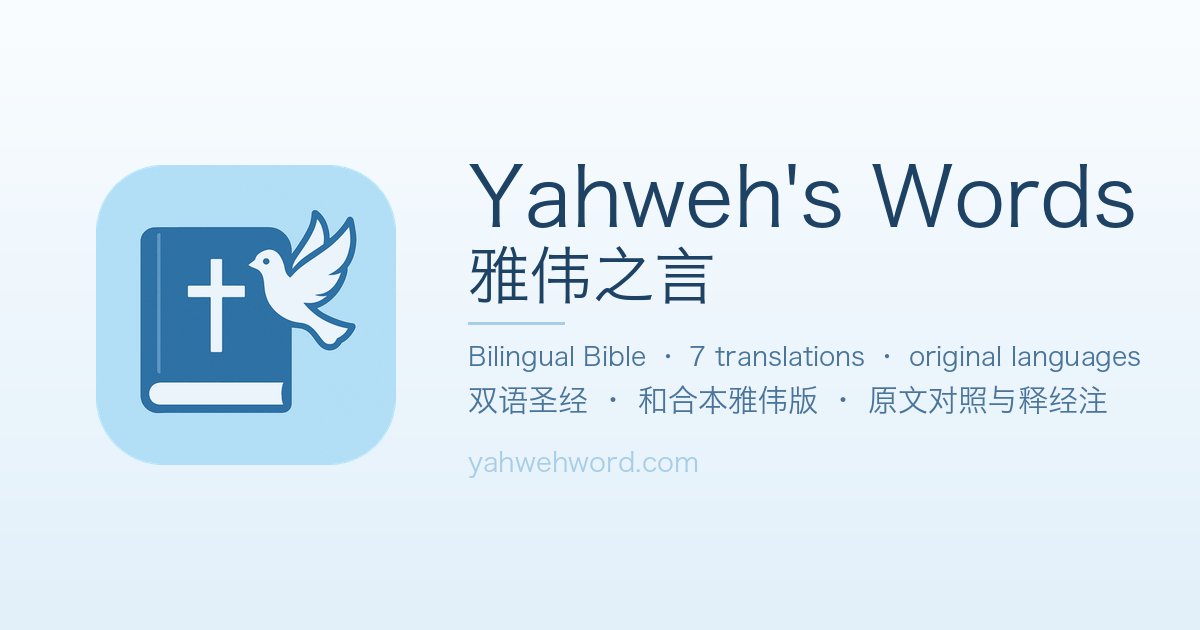
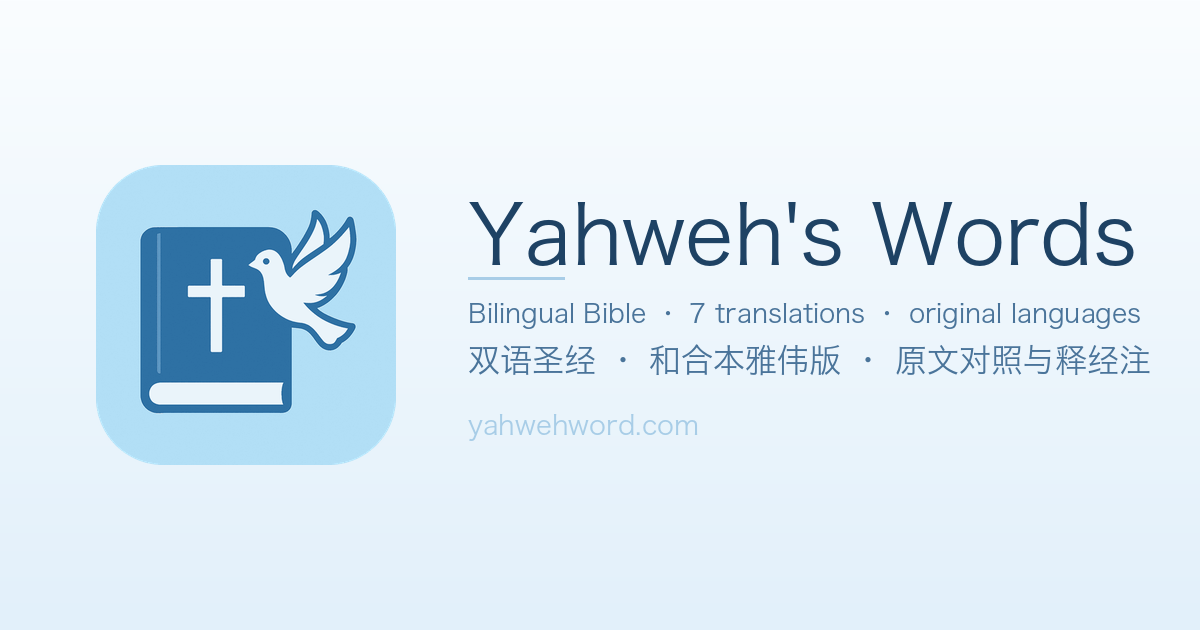
web: one name per language in the share layer, never the pair

Changed region(s): [[0.37, 0.2714, 0.9558, 0.6937], [0.37, 0.7238, 0.5858, 0.754]]

diff --git a/web/index.html b/web/index.html
@@ -55,7 +55,7 @@
        They are what makes this app findable AT ALL: no other Bible site
        carries them, so they are the queries that can actually be won,
        while "bible app" cannot. -->
-  <meta name="description" content="Yahweh's Words 雅伟之言 — free bilingual Bible: 和合本雅伟版、梁家铿译本、KJV、NASB、LEB, original Greek &amp; Hebrew, cross-references, sermons and hymns.">
+  <meta name="description" content="Yahweh's Words — a free bilingual Bible: 和合本雅伟版、梁家铿译本、KJV、NASB、LEB, original Greek &amp; Hebrew, cross-references, sermons and hymns. 雅伟之言 —— 免费的中英对照圣经。">
 
   <!-- Kept even though Google has ignored keywords since 2009: Baidu
        and Sogou still read it, and a large share of this app's readers
@@ -75,14 +75,14 @@
        picture. Regenerate the card with `python3 tools/make_og_card.py`
        whenever the name, tagline or domain changes. -->
   <meta property="og:type" content="website">
-  <meta property="og:site_name" content="Yahweh's Words 雅伟之言">
-  <meta property="og:title" content="Yahweh's Words 雅伟之言 — Bilingual Bible 双语圣经">
-  <meta property="og:description" content="Free bilingual Bible: 和合本雅伟版、梁家铿译本、KJV、NASB、LEB, original Greek &amp; Hebrew, cross-references, sermons and hymns.">
+  <meta property="og:site_name" content="Yahweh's Words">
+  <meta property="og:title" content="Yahweh's Words — Bilingual Bible 双语圣经">
+  <meta property="og:description" content="A free bilingual Bible: 和合本雅伟版、梁家铿译本、KJV、NASB、LEB, original Greek &amp; Hebrew, cross-references, sermons and hymns. 雅伟之言 —— 中英对照，免费使用。">
   <meta property="og:url" content="https://yahwehword.com/">
   <meta property="og:image" content="https://yahwehword.com/og-card.png">
   <meta property="og:image:width" content="1200">
   <meta property="og:image:height" content="630">
-  <meta property="og:image:alt" content="Yahweh's Words 雅伟之言 — bilingual Bible reader">
+  <meta property="og:image:alt" content="Yahweh's Words — bilingual Bible reader">
   <!-- The app ships one UI in three scripts at the SAME url, so there
        is nothing for hreflang to point at (it needs distinct URLs per
        language and inventing them would be worse than omitting it).
@@ -92,8 +92,8 @@
   <meta property="og:locale:alternate" content="zh_TW">
 
   <meta name="twitter:card" content="summary_large_image">
-  <meta name="twitter:title" content="Yahweh's Words 雅伟之言 — Bilingual Bible 双语圣经">
-  <meta name="twitter:description" content="Free bilingual Bible: 和合本雅伟版、梁家铿译本、KJV、NASB、LEB, original Greek &amp; Hebrew, cross-references, sermons and hymns.">
+  <meta name="twitter:title" content="Yahweh's Words — Bilingual Bible 双语圣经">
+  <meta name="twitter:description" content="A free bilingual Bible: 和合本雅伟版、梁家铿译本、KJV、NASB、LEB, original Greek &amp; Hebrew, cross-references, sermons and hymns. 雅伟之言 —— 中英对照，免费使用。">
   <meta name="twitter:image" content="https://yahwehword.com/og-card.png">
 
   <!-- Structured data. Deliberately NOT claimed here: aggregateRating
@@ -119,7 +119,8 @@
       {
         "@type": "WebApplication",
         "@id": "https://yahwehword.com/#app",
-        "name": "Yahweh's Words 雅伟之言",
+        "name": "Yahweh's Words",
+        "alternateName": ["雅伟之言", "雅偉之言"],
         "url": "https://yahwehword.com/",
         "applicationCategory": "ReferenceApplication",
         "operatingSystem": "Any (web browser)",
@@ -736,6 +737,7 @@
         color: #0d3b5c;
       }
       .ys-noscript h1 { font-size: 24px; margin: 0 0 4px; }
+      .ys-noscript .ys-name-zh { font-size: 22px; font-weight: 600; margin: 30px 0 4px; }
       .ys-noscript h2 { font-size: 17px; font-weight: 600; margin: 28px 0 6px; }
       .ys-noscript p { margin: 8px 0; }
       .ys-noscript .ys-note {
@@ -749,10 +751,16 @@
       }
     </style>
     <div class="ys-noscript">
-      <h1>Yahweh's Words · 雅伟之言</h1>
+      <!-- Two names, never juxtaposed. English is "Yahweh's Words",
+           Chinese is 雅伟之言, and each heads its OWN language's block —
+           the same rule the splash and the Flutter loading page follow,
+           applied to the one page that has to serve both at once because
+           it runs with JavaScript off and cannot ask who is reading. -->
+      <h1>Yahweh's Words</h1>
       <p>A free bilingual Bible reader — English and Chinese side by side,
          for listening to His voice and abiding in Him daily.</p>
-      <p>免费的双语圣经阅读工具 —— 中英对照，帮助你每天听祂的声音、住在祂里面。</p>
+      <p class="ys-name-zh" lang="zh-Hans">雅伟之言</p>
+      <p lang="zh-Hans">免费的双语圣经阅读工具 —— 中英对照，帮助你每天听祂的声音、住在祂里面。</p>
 
       <h2>Translations · 收录译本</h2>
       <p>和合本雅伟版（简体・繁體）、梁家铿译本（简体・繁體）、King James Version、

diff --git a/test/seo_meta_test.dart b/test/seo_meta_test.dart
@@ -19,8 +19,20 @@ void main() {
   final html = File('web/index.html').readAsStringSync();
   // Assertions about what the page DECLARES must not be satisfied — or
   // broken — by prose. index.html is heavily commented on purpose, and
-  // several of those comments name the very tags checked below.
-  final markup = html.replaceAll(RegExp(r'<!--[\s\S]*?-->'), '');
+  // several of those comments name the very tags checked below: one
+  // explains why there is no hreflang, another QUOTES the old
+  // side-by-side name pair while recording the day it was dropped.
+  // Both are documentation of a decision, not the decision itself.
+  //
+  // Two comment syntaxes live in this file — <!-- --> around markup and
+  // // inside the boot <script>s — so both come out. A `//` is only
+  // treated as a comment when it opens the line, which keeps every
+  // `https://` in the file intact.
+  final markup = html
+      .replaceAll(RegExp(r'<!--[\s\S]*?-->'), '')
+      .split('\n')
+      .where((l) => !l.trimLeft().startsWith('//'))
+      .join('\n');
 
   String? metaContent(String attr, String key) {
     // Tolerant of attribute order: the tag is authored `property=…
@@ -124,6 +136,29 @@ void main() {
                 'real ratings to report; fabricating them risks a manual '
                 'action against the whole site');
       }
+    });
+
+    test('never prints the two names side by side', () {
+      // The user's rule, given 2026-08-30 and restated 2026-08-31:
+      // English is "Yahweh's Words", Chinese is 雅伟之言, and no screen
+      // shows the pair. The app honours it by reading the reader's own
+      // language — but OG tags and the share card are STATIC (unfurlers
+      // do not run JavaScript), so the pair is exactly what a
+      // well-meaning edit reaches for when one tag has to serve both
+      // audiences. It got in once already, in the first version of this
+      // very block.
+      //
+      // The rule is about the NAME. Describing the app in both languages
+      // is fine and deliberate; what must not happen is the two names
+      // rendered as a single label.
+      final pair = RegExp(
+          "(Yahweh's Words\\s*[·・|/,、_—–-]?\\s*雅[伟偉]之言)"
+          "|(雅[伟偉]之言\\s*[·・|/,、_—–-]?\\s*Yahweh's Words)");
+      final hit = pair.firstMatch(markup);
+      expect(hit, isNull,
+          reason: 'the two names appear together as "${hit?.group(0)}". '
+              'One name per language: English text says '
+              "Yahweh's Words, Chinese text says 雅伟之言.");
     });
 
     test('no hreflang, because there are no per-language urls', () {

diff --git a/tools/make_og_card.py b/tools/make_og_card.py
@@ -4,10 +4,10 @@ shows — WeChat, WhatsApp, Facebook, Twitter/X, iMessage, Slack.
 
     python3 tools/make_og_card.py
 
-Why a script and not a one-off export: the card carries the app name in
-BOTH scripts and the domain, all three of which have already changed
-once (「雅伟之言」 replaced the printed pair on 2026-08-30; the site moved
-to yahwehword.com). Regenerating has to be a one-liner, or the card
+Why a script and not a one-off export: the card carries the app name,
+the tagline and the domain, and all three have already changed once (the
+printed name pair was dropped on 2026-08-30; the site moved to
+yahwehword.com). Regenerating has to be a one-liner, or the card
 silently goes stale and every share advertises the old name.
 
 Composition notes, so a later edit does not undo them by accident:
@@ -20,6 +20,19 @@ Composition notes, so a later edit does not undo them by accident:
     that covers Latin AND both Chinese scripts, so the Latin and the
     Chinese lines share a weight instead of visibly disagreeing the way
     Helvetica-plus-a-CJK-fallback does.
+  * ONE name, not the pair. The user's rule (2026-08-30, restated
+    2026-08-31): English is "Yahweh's Words", Chinese is 雅伟之言, and
+    the two are never printed side by side. In the app that is easy —
+    it reads the reader's own language. A share card cannot: WeChat,
+    WhatsApp and every other unfurler read the raw HTML WITHOUT running
+    JavaScript, so there is exactly one card for every reader and it has
+    to pick. It picks English, matching the domain and the static
+    <title> that link previews already fall back to. The Chinese carries
+    the DESCRIPTION lines instead, so the card is still bilingual
+    without ever stacking the two names.
+    To flip the card to Chinese: swap `name` to 雅伟之言 below and swap
+    og:title / og:image:alt in web/index.html to match. Change both or
+    the picture and the text disagree.
 """
 
 import os
@@ -132,34 +145,30 @@ def main():
                   % (text, floor), file=sys.stderr)
         return f
 
-    name_en = "Yahweh's Words"
-    name_zh = '雅伟之言'
+    name = "Yahweh's Words"
     tag_en = 'Bilingual Bible · 7 translations · original languages'
     tag_zh = '双语圣经 · 和合本雅伟版 · 原文对照与释经注'
     domain = 'yahwehword.com'
 
-    f_name = fitted(name_en, 82)
-    f_zh = fitted(name_zh, 62)
-    f_tag = fitted(tag_en, 30)
-    f_tag_zh = fitted(tag_zh, 30)
+    f_name = fitted(name, 82)
+    f_tag = fitted(tag_en, 32)
+    f_tag_zh = fitted(tag_zh, 32)
     f_domain = fitted(domain, 27)
 
-    block = (height(name_en, f_name) + 26 + height(name_zh, f_zh) + 40
-             + height(tag_en, f_tag) + 14 + height(tag_zh, f_tag_zh)
-             + 34 + height(domain, f_domain))
+    block = (height(name, f_name) + 44
+             + height(tag_en, f_tag) + 16 + height(tag_zh, f_tag_zh)
+             + 36 + height(domain, f_domain))
     y = (H - block) // 2
 
-    draw.text((x, y), name_en, font=f_name, fill=INK)
-    y += height(name_en, f_name) + 26
-    draw.text((x, y), name_zh, font=f_zh, fill=INK)
-    y += height(name_zh, f_zh) + 40
+    draw.text((x, y), name, font=f_name, fill=INK)
+    y += height(name, f_name) + 44
 
-    draw.line([(x, y - 20), (x + 96, y - 20)], fill=RULE, width=3)
+    draw.line([(x, y - 22), (x + 96, y - 22)], fill=RULE, width=3)
 
     draw.text((x, y), tag_en, font=f_tag, fill=INK_SOFT)
-    y += height(tag_en, f_tag) + 14
+    y += height(tag_en, f_tag) + 16
     draw.text((x, y), tag_zh, font=f_tag_zh, fill=INK_SOFT)
-    y += height(tag_zh, f_tag_zh) + 34
+    y += height(tag_zh, f_tag_zh) + 36
 
     draw.text((x, y), domain, font=f_domain, fill=RULE)
 
